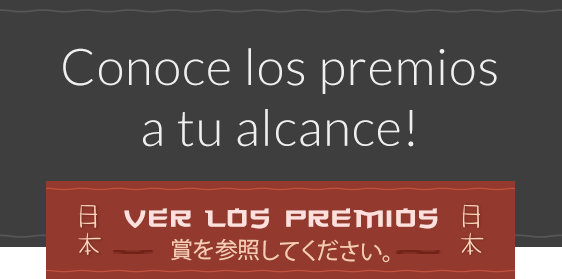
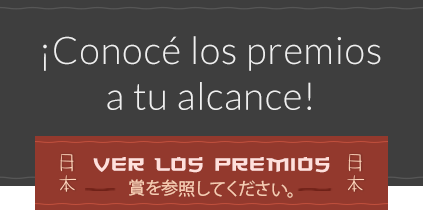
fix

diff --git a/public/css/home.css b/public/css/home.css
@@ -2158,7 +2158,7 @@
   z-index: -1;
   width: 100%;
   height: 68px;
-  background-image: url('../images/header-houses.png');
+  background-image: url('../images/header-top.png');
   background-position: 0px 0px;
   background-size: 100% 55px;
   background-repeat: no-repeat;

diff --git a/resources/views/profile/index.blade.php b/resources/views/profile/index.blade.php
@@ -49,7 +49,7 @@
   </style>
 </head>
 <body style="background: url('/images/bg-profile.png') no-repeat top left;
-background-size: 100%">
+background-size: 100%; background-color: #6BA242;">
 <div class="container-custom ranking">
   <div class="bblock-12-ranking div-block-12">
     <img class="image-15" src="images/logo-summit.svg">
@@ -88,7 +88,7 @@ background-size: 100%">
     </div>
   </div>
   <div>
-    <div class="text-block-10">Eres samurai
+    <div class="text-block-10">Eres samurái
       @if(Auth::user()->points > $levels[0]->points)
       <strong>Nivel 04</strong>
       <?php $actual = 0 ?>
@@ -106,7 +106,7 @@ background-size: 100%">
     </div>
     @if(isset($levels[$actual - 1]))
     <div class="text-block-11">
-      Necesitas
+      ¡Necesitas
       <span>{{$levels[$actual - 1]->points - Auth::user()->points}}</span>
       puntos para alcanzar el siguiente nivel!
     </div>
@@ -150,9 +150,9 @@ background-size: 100%">
 <div class="div-block-40">
     <div class="text-block-21">Toda la información aquí contenida es propiedad de Summit Agro Argentina S.A., prohibida su reproducción total o parcial, exhibición y/o uso sin expresa autorización de Summit Agro Argentina S.A.
       <br>
-      Carlos Pellegrini 719, Piso 8 (C1009ABO), Cuidad de Buenos Aires Tel: (011) 3750-6750 - Copyright Summit Agro Argentina 2013. Todos los derechos reservados. <a href="/bases" style="color:white">Terminos &amp;Condiciones.</a>
+      Carlos Pellegrini 719, Piso 8 (C1009ABO), Cuidad de Buenos Aires Tel: (011) 3750-6750 - Copyright Summit Agro Argentina 2013. Todos los derechos reservados. <a href="/bases" style="color:white">Bases & Condiciones.</a>
       <br>
-      Si tenes alguna duda escribinos a <a style="color:white" href="mailto:summitsamurai@summit-agro.com.ar">summitsamurai@summit-agro.com.ar</a></div>
+      Si tenés alguna duda escribinos a <a style="color:white" href="mailto:summitsamurai@summit-agro.com.ar">summitsamurai@summit-agro.com.ar</a></div>
   </div>
 <script src="https://ajax.googleapis.com/ajax/libs/jquery/2.2.0/jquery.min.js" type="text/javascript"></script>
 <script src="js/webflow.js" type="text/javascript"></script>

diff --git a/resources/views/home.blade.php b/resources/views/home.blade.php
@@ -51,9 +51,11 @@
 <body class="body-5">
   <div class="div-block-49"></div>
   <div class="container-home home-c">
-    <div class="brand-image"><img class="image-16" src="images/personaje-logo.png">
+    <div class="brand-image">
+      <img class="image-16" src="images/personaje-logo.png">
     </div>
-    <div class="logo-image"><img class="image-17" src="images/logo-summit.svg" width="385">
+    <div class="logo-image">
+      <img class="image-17" src="images/logo-summit.svg" width="385">
     </div>
     <ul class="header-home unordered-list-2 w-list-unstyled">
       <li class="list-item-4"><a href="/home" class="link-6">INICIO</a>
@@ -75,9 +77,9 @@
   <div class="div-block-40">
     <div class="text-block-21">Toda la información aquí contenida es propiedad de Summit Agro Argentina S.A., prohibida su reproducción total o parcial, exhibición y/o uso sin expresa autorización de Summit Agro Argentina S.A.
       <br>
-      Carlos Pellegrini 719, Piso 8 (C1009ABO), Cuidad de Buenos Aires Tel: (011) 3750-6750 - Copyright Summit Agro Argentina 2013. Todos los derechos reservados. <a href="/bases" style="color:white">Terminos &amp;Condiciones.</a>
+      Carlos Pellegrini 719, Piso 8 (C1009ABO), Cuidad de Buenos Aires Tel: (011) 3750-6750 - Copyright Summit Agro Argentina 2013. Todos los derechos reservados. <a href="/bases" style="color:white">Bases & Condiciones</a>
       <br>
-      Si tenes alguna duda escribinos a <a style="color:white" href="mailto:summitsamurai@summit-agro.com.ar">summitsamurai@summit-agro.com.ar</a></div>
+      Si tenés alguna duda escribinos a <a style="color:white" href="mailto:summitsamurai@summit-agro.com.ar">summitsamurai@summit-agro.com.ar</a></div>
   </div>
   <div id="video" class="modal" style="display: none; max-width: 700px!important;">
     <iframe src="https://player.vimeo.com/video/214694695" width="100%" height="360" frameborder="0" webkitallowfullscreen mozallowfullscreen allowfullscreen></iframe>

diff --git a/resources/views/levels/index.blade.php b/resources/views/levels/index.blade.php
@@ -73,7 +73,7 @@
           </div>
           <div class="w-col w-col-9">
             <div class="text-block-27">NIVEL 04</div>
-            <div class="text-block-28">Ultimo Samurai</div>
+            <div class="text-block-28">Ultimo Samurái</div>
             <div class="text-block-29">Arma de entrenamiento: Katana Moderna</div>
             <div class="text-block-29">Cantidad de puntos necesarios: {{$level[3]->points}}</div>
           </div>
@@ -85,7 +85,7 @@
           </div>
           <div class="w-col w-col-9">
             <div class="text-block-27">NIVEL 03</div>
-            <div class="text-block-28">Samurai con armadura clasica</div>
+            <div class="text-block-28">Samurái con armadura clasica</div>
             <div class="text-block-29">Arma de entrenamiento: Katana&nbsp;</div>
             <div class="text-block-29">Cantidad de puntos necesarios: {{$level[2]->points}}</div>
           </div>
@@ -97,7 +97,7 @@
           </div>
           <div class="w-col w-col-9">
             <div class="text-block-27">NIVEL 02</div>
-            <div class="text-block-28">Samurai con armadura simple</div>
+            <div class="text-block-28">Samurái con armadura simple</div>
             <div class="text-block-29">Arma de entrenamiento: Bokken</div>
             <div class="text-block-29">Cantidad de puntos necesarios: {{$level[1]->points}}</div>
           </div>
@@ -109,7 +109,7 @@
           </div>
           <div class="w-col w-col-9">
             <div class="text-block-27">NIVEL 01</div>
-            <div class="text-block-28">Ultimo Samurai</div>
+            <div class="text-block-28">Samurái sin armadura, aprendiz</div>
             <div class="text-block-29">Arma de entrenamiento: Bokken</div>
             <div class="text-block-29">Cantidad de puntos necesarios: {{$level[0]->points}}</div>
           </div>

diff --git a/resources/views/bases/index.blade.php b/resources/views/bases/index.blade.php
@@ -27,8 +27,8 @@
     try{Typekit.load();}catch(e){}
   </script>
   <script src="js/modernizr.js" type="text/javascript"></script>
-  <link href="https://daks2k3a4ib2z.cloudfront.net/img/favicon.ico" rel="shortcut icon" type="image/x-icon">
-  <link href="https://daks2k3a4ib2z.cloudfront.net/img/webclip.png" rel="apple-touch-icon">
+  <link rel="shortcut icon" href="/images/favicon.ico" type="image/x-icon">
+  <link rel="icon" href="/images/favicon.ico" type="image/x-icon">
   <style>
     select {
     	-webkit-appearance: none !important;
@@ -225,9 +225,9 @@
     <div class="footer">
     <div class="footer-text">Toda la información aquí contenida es propiedad de Summit Agro Argentina S.A., prohibida su reproducción total o parcial, exhibición y/o uso sin expresa autorización de Summit Agro Argentina S.A.
       <br>
-      Carlos Pellegrini 719, Piso 8 (C1009ABO), Cuidad de Buenos Aires Tel: (011) 3750-6750 - Copyright Summit Agro Argentina 2013. Todos los derechos reservados. <a href="/bases" style="color:white">Terminos &amp;Condiciones.</a>
+      Carlos Pellegrini 719, Piso 8 (C1009ABO), Cuidad de Buenos Aires Tel: (011) 3750-6750 - Copyright Summit Agro Argentina 2013. Todos los derechos reservados. <a href="/bases" style="color:white">Bases & Condiciones</a>
       <br>
-      Si tenes alguna duda escribinos a <a style="color:white" href="mailto:summitsamurai@summit-agro.com.ar">summitsamurai@summit-agro.com.ar</a></div>
+      Si tenés alguna duda escribinos a <a style="color:white" href="mailto:summitsamurai@summit-agro.com.ar">summitsamurai@summit-agro.com.ar</a></div>
   </div>
   <script src="https://ajax.googleapis.com/ajax/libs/jquery/2.2.0/jquery.min.js" type="text/javascript"></script>
   <script src="/js/webflow.js" type="text/javascript"></script>

diff --git a/resources/views/awards/index.blade.php b/resources/views/awards/index.blade.php
@@ -78,7 +78,7 @@
   <link rel="icon" href="/images/favicon.ico" type="image/x-icon">
 </head>
 <body class="body" style="background: url('/images/awards-bg.png') no-repeat top left;
-background-size: 100%">
+background-size: 100%; background-color: #6BA242">
   <div class="div-block-11" style="margin-bottom: 25em;">
     <div class="container-custom">
       <div class="div-block-12">
@@ -219,9 +219,9 @@ background-size: 100%">
     <div class="footer">
     <div class="footer-text">Toda la información aquí contenida es propiedad de Summit Agro Argentina S.A., prohibida su reproducción total o parcial, exhibición y/o uso sin expresa autorización de Summit Agro Argentina S.A.
       <br>
-      Carlos Pellegrini 719, Piso 8 (C1009ABO), Cuidad de Buenos Aires Tel: (011) 3750-6750 - Copyright Summit Agro Argentina 2013. Todos los derechos reservados. <a href="/bases" style="color:white">Terminos &amp;Condiciones.</a>
+      Carlos Pellegrini 719, Piso 8 (C1009ABO), Cuidad de Buenos Aires Tel: (011) 3750-6750 - Copyright Summit Agro Argentina 2013. Todos los derechos reservados. <a href="/bases" style="color:white">Bases & Condiciones</a>
       <br>
-      Si tenes alguna duda escribinos a <a style="color:white" href="mailto:summitsamurai@summit-agro.com.ar">summitsamurai@summit-agro.com.ar</a></div>
+      Si tenés alguna duda escribinos a <a style="color:white" href="mailto:summitsamurai@summit-agro.com.ar">summitsamurai@summit-agro.com.ar</a></div>
   </div>
   </div>
   <script src="https://ajax.googleapis.com/ajax/libs/jquery/2.2.0/jquery.min.js" type="text/javascript"></script>

diff --git a/resources/views/intros/intro-2.blade.php b/resources/views/intros/intro-2.blade.php
@@ -80,9 +80,9 @@ Todo, para ayudarte a encontrar el camino al éxito. Y para que ganar no sea una
   <div class="div-block-40">
     <div class="text-block-21">Toda la información aquí contenida es propiedad de Summit Agro Argentina S.A., prohibida su reproducción total o parcial, exhibición y/o uso sin expresa autorización de Summit Agro Argentina S.A.
       <br>
-      Carlos Pellegrini 719, Piso 8 (C1009ABO), Cuidad de Buenos Aires Tel: (011) 3750-6750 - Copyright Summit Agro Argentina 2013. Todos los derechos reservados. <a href="/bases" style="color:white">Terminos &amp;Condiciones.</a>
+      Carlos Pellegrini 719, Piso 8 (C1009ABO), Cuidad de Buenos Aires Tel: (011) 3750-6750 - Copyright Summit Agro Argentina 2013. Todos los derechos reservados. <a href="/bases" style="color:white">Bases & Condiciones</a>
       <br>
-      Si tenes alguna duda escribinos a <a style="color:white" href="mailto:summitsamurai@summit-agro.com.ar">summitsamurai@summit-agro.com.ar</a></div>
+      Si tenés alguna duda escribinos a <a style="color:white" href="mailto:summitsamurai@summit-agro.com.ar">summitsamurai@summit-agro.com.ar</a></div>
   </div>
   <script src="https://ajax.googleapis.com/ajax/libs/jquery/2.2.0/jquery.min.js" type="text/javascript"></script>
   <script src="js/webflow.js" type="text/javascript"></script>

diff --git a/resources/views/solicitudes/index.blade.php b/resources/views/solicitudes/index.blade.php
@@ -213,9 +213,9 @@
  <div class="footer">
   <div class="footer-text">Toda la información aquí contenida es propiedad de Summit Agro Argentina S.A., prohibida su reproducción total o parcial, exhibición y/o uso sin expresa autorización de Summit Agro Argentina S.A.
       <br>
-      Carlos Pellegrini 719, Piso 8 (C1009ABO), Cuidad de Buenos Aires Tel: (011) 3750-6750 - Copyright Summit Agro Argentina 2013. Todos los derechos reservados. <a href="/bases" style="color:white">Terminos &amp;Condiciones.</a>
+      Carlos Pellegrini 719, Piso 8 (C1009ABO), Cuidad de Buenos Aires Tel: (011) 3750-6750 - Copyright Summit Agro Argentina 2013. Todos los derechos reservados. <a href="/bases" style="color:white">Bases & Condiciones</a>
       <br>
-      Si tenes alguna duda escribinos a <a style="color:white" href="mailto:summitsamurai@summit-agro.com.ar">summitsamurai@summit-agro.com.ar</a></div>
+      Si tenés alguna duda escribinos a <a style="color:white" href="mailto:summitsamurai@summit-agro.com.ar">summitsamurai@summit-agro.com.ar</a></div>
   </div>
 <script src="https://ajax.googleapis.com/ajax/libs/jquery/2.2.0/jquery.min.js" type="text/javascript"></script>
 

diff --git a/resources/views/intros/intro-1.blade.php b/resources/views/intros/intro-1.blade.php
@@ -75,9 +75,9 @@
     <div class="text-block-21">
     Toda la información aquí contenida es propiedad de Summit Agro Argentina S.A., prohibida su reproducción total o parcial, exhibición y/o uso sin expresa autorización de Summit Agro Argentina S.A.
       <br>
-      Carlos Pellegrini 719, Piso 8 (C1009ABO), Cuidad de Buenos Aires Tel: (011) 3750-6750 - Copyright Summit Agro Argentina 2013. Todos los derechos reservados. <a href="/bases" style="color:white">Terminos &amp;Condiciones.</a>
+      Carlos Pellegrini 719, Piso 8 (C1009ABO), Cuidad de Buenos Aires Tel: (011) 3750-6750 - Copyright Summit Agro Argentina 2013. Todos los derechos reservados. <a href="/bases" style="color:white">Bases & Condiciones</a>
       <br>
-      Si tenes alguna duda escribinos a <a style="color:white" href="mailto:summitsamurai@summit-agro.com.ar">summitsamurai@summit-agro.com.ar</a>
+      Si tenés alguna duda escribinos a <a style="color:white" href="mailto:summitsamurai@summit-agro.com.ar">summitsamurai@summit-agro.com.ar</a>
     </div>
   </div>
   <script src="https://ajax.googleapis.com/ajax/libs/jquery/2.2.0/jquery.min.js" type="text/javascript"></script>

diff --git a/resources/views/auth/passwords/email.blade.php b/resources/views/auth/passwords/email.blade.php
@@ -98,7 +98,7 @@ background-size: 100%">
 <div class="div-block-40">
   <div class="text-block-21">Toda la información aquí contenida es propiedad de Summit Agro Argentina S.A., prohibida su reproducción total o parcial, exhibición y/o uso sin expresa autorización de Summit Agro Argentina S.A.
       <br>
-      Carlos Pellegrini 719, Piso 8 (C1009ABO), Cuidad de Buenos Aires Tel: (011) 3750-6750 - Copyright Summit Agro Argentina 2013. Todos los derechos reservados. <a href="/bases" style="color:white">Terminos &amp;Condiciones.</a>
+      Carlos Pellegrini 719, Piso 8 (C1009ABO), Cuidad de Buenos Aires Tel: (011) 3750-6750 - Copyright Summit Agro Argentina 2013. Todos los derechos reservados. <a href="/bases" style="color:white">Bases & Condiciones</a>
       <br>
       Si tenes alguna duda escribinos a <a style="color:white" href="mailto:summitsamurai@summit-agro.com.ar">summitsamurai@summit-agro.com.ar</a></div>
 </div>

diff --git a/resources/views/auth/login.blade.php b/resources/views/auth/login.blade.php
@@ -100,7 +100,7 @@
   <div class="div-block-40">
     <div class="text-block-21">Toda la información aquí contenida es propiedad de Summit Agro Argentina S.A., prohibida su reproducción total o parcial, exhibición y/o uso sin expresa autorización de Summit Agro Argentina S.A.
       <br>
-      Carlos Pellegrini 719, Piso 8 (C1009ABO), Cuidad de Buenos Aires Tel: (011) 3750-6750 - Copyright Summit Agro Argentina 2013. Todos los derechos reservados. <a href="/bases" style="color:white">Terminos &amp;Condiciones.</a>
+      Carlos Pellegrini 719, Piso 8 (C1009ABO), Cuidad de Buenos Aires Tel: (011) 3750-6750 - Copyright Summit Agro Argentina 2013. Todos los derechos reservados. <a href="/bases" style="color:white">Bases & Condiciones</a>
       <br>
       Si tenes alguna duda escribinos a <a style="color:white" href="mailto:summitsamurai@summit-agro.com.ar">summitsamurai@summit-agro.com.ar</a></div>
     </div>

diff --git a/resources/views/auth/register.blade.php b/resources/views/auth/register.blade.php
@@ -279,7 +279,7 @@
   <div class="div-block-40">
     <div class="text-block-21">Toda la información aquí contenida es propiedad de Summit Agro Argentina S.A., prohibida su reproducción total o parcial, exhibición y/o uso sin expresa autorización de Summit Agro Argentina S.A.
       <br>
-      Carlos Pellegrini 719, Piso 8 (C1009ABO), Cuidad de Buenos Aires Tel: (011) 3750-6750 - Copyright Summit Agro Argentina 2013. Todos los derechos reservados. <a href="/bases" style="color:white">Terminos &amp;Condiciones.</a>
+      Carlos Pellegrini 719, Piso 8 (C1009ABO), Cuidad de Buenos Aires Tel: (011) 3750-6750 - Copyright Summit Agro Argentina 2013. Todos los derechos reservados. <a href="/bases" style="color:white">Bases & Condiciones</a>
       <br>
       Si tenes alguna duda escribinos a <a style="color:white" href="mailto:summitsamurai@summit-agro.com.ar">summitsamurai@summit-agro.com.ar</a></div>
   </div>
